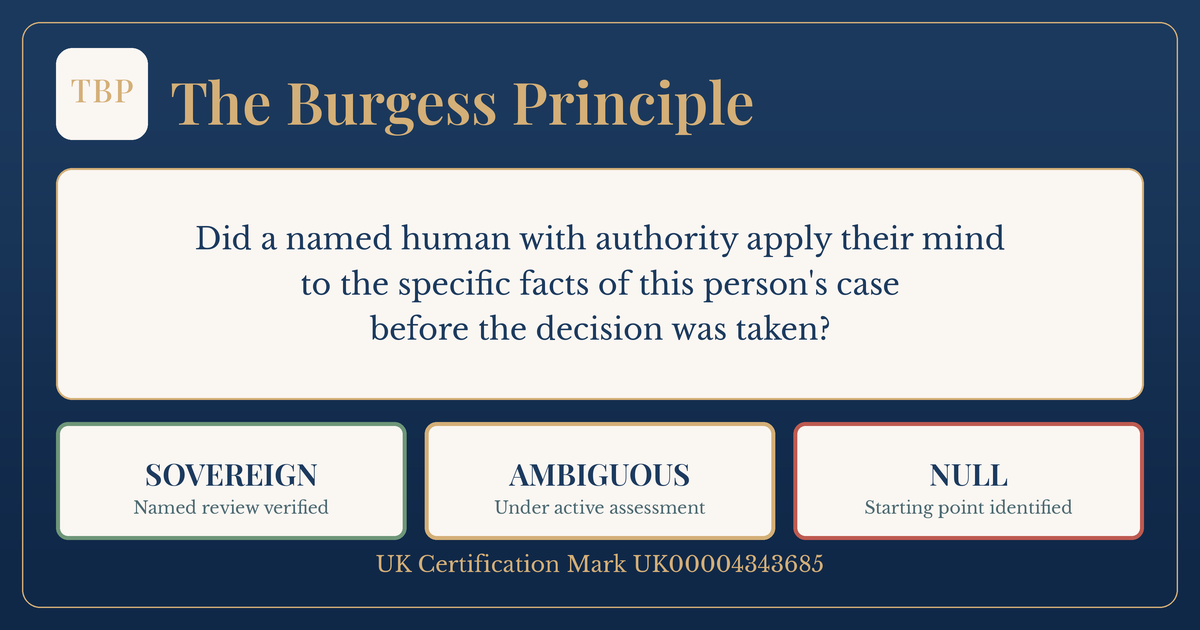
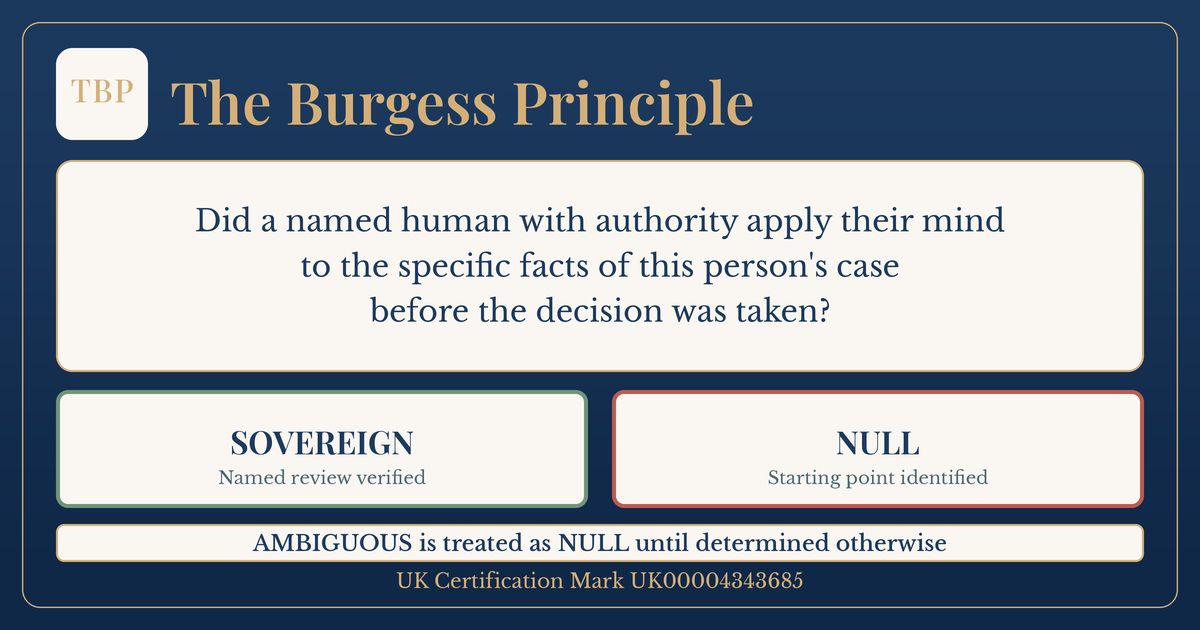
Treat AMBIGUOUS as a working note, not a third outcome. (#516)
The landing test section is binary again: SOVEREIGN or NULL, with a smaller note that AMBIGUOUS is treated as NULL until determined otherwise. Add the same clause to the certify working-note sentence, replace the em dash in the badge AMBIGUOUS label, and update the share image so the two outcome boxes sit above that note.

Changed region(s): [[0.0308, 0.573, 0.9558, 0.9349], [0.1542, 0.3317, 0.8325, 0.5429], [0.0308, 0.2413, 0.9558, 0.2714]]

diff --git a/index.html b/index.html
@@ -16,13 +16,13 @@
     <meta property="og:image" content="https://burgess-principle.vercel.app/og-image.png">
     <meta property="og:image:width" content="1200">
     <meta property="og:image:height" content="630">
-    <meta property="og:image:alt" content="The Burgess Principle. Did a named human with authority apply their mind to the specific facts of this person's case before the decision was taken? Outcomes: SOVEREIGN, AMBIGUOUS, NULL. UK Certification Mark UK00004343685.">
+    <meta property="og:image:alt" content="The Burgess Principle. Did a named human with authority apply their mind to the specific facts of this person's case before the decision was taken? Outcomes: SOVEREIGN or NULL. AMBIGUOUS is treated as NULL until determined otherwise. UK Certification Mark UK00004343685.">
 
     <meta name="twitter:card" content="summary_large_image">
     <meta name="twitter:title" content="The Burgess Principle: was a human there?">
     <meta name="twitter:description" content="Did a named human with authority apply their mind to the specific facts of this person's case before the decision was taken? UK Certification Mark UK00004343685.">
     <meta name="twitter:image" content="https://burgess-principle.vercel.app/og-image.png">
-    <meta name="twitter:image:alt" content="The Burgess Principle. Did a named human with authority apply their mind to the specific facts of this person's case before the decision was taken? Outcomes: SOVEREIGN, AMBIGUOUS, NULL. UK Certification Mark UK00004343685.">
+    <meta name="twitter:image:alt" content="The Burgess Principle. Did a named human with authority apply their mind to the specific facts of this person's case before the decision was taken? Outcomes: SOVEREIGN or NULL. AMBIGUOUS is treated as NULL until determined otherwise. UK Certification Mark UK00004343685.">
     <meta name="theme-color" content="#0a0a0a">
     <meta name="apple-mobile-web-app-capable" content="yes">
     <meta name="apple-mobile-web-app-status-bar-style" content="black-translucent">
@@ -319,9 +319,9 @@
         /* ------------------------------------------------------------------ */
         .binary-grid {
             display: grid;
-            grid-template-columns: 1fr 1fr 1fr;
+            grid-template-columns: 1fr 1fr;
             gap: 20px;
-            max-width: 1020px;
+            max-width: 700px;
         }
 
         .binary-card {
@@ -336,11 +336,6 @@
             border-color: rgba(92, 184, 92, 0.2);
         }
 
-        .binary-card-ambiguous {
-            background: linear-gradient(135deg, rgba(212, 175, 119, 0.10) 0%, transparent 100%);
-            border-color: rgba(212, 175, 119, 0.35);
-        }
-
         .binary-card-null {
             background: linear-gradient(135deg, rgba(217, 83, 79, 0.06) 0%, transparent 100%);
             border-color: rgba(217, 83, 79, 0.2);
@@ -353,13 +348,29 @@
         }
 
         .binary-card-sovereign .binary-finding { color: var(--green); }
-        .binary-card-ambiguous .binary-finding { color: var(--gold); }
         .binary-card-null .binary-finding { color: var(--red); }
 
         .binary-meaning {
             font-size: 0.85rem;
             color: var(--text-dim);
             line-height: 1.6;
+        }
+
+        .binary-note {
+            max-width: 700px;
+            margin: 20px 0 0;
+            padding: 14px 18px;
+            border-radius: var(--radius-lg);
+            border: 1px solid rgba(212, 175, 119, 0.28);
+            background: rgba(212, 175, 119, 0.06);
+            color: var(--text-dim);
+            font-size: 0.82rem;
+            line-height: 1.55;
+        }
+
+        .binary-note strong {
+            color: var(--gold);
+            font-weight: 600;
         }
 
         /* ------------------------------------------------------------------ */
@@ -1662,22 +1673,19 @@
             <div class="section-label">The Core</div>
             <h2 class="section-title">The Test</h2>
             <p class="section-desc">
-                Every finding under the Burgess Principle resolves to one of three outcomes: SOVEREIGN, AMBIGUOUS, or NULL.
+                Every finding under the Burgess Principle resolves to one of two outcomes: SOVEREIGN or NULL.
             </p>
             <div class="binary-grid">
                 <div class="binary-card binary-card-sovereign">
                     <div class="binary-finding">SOVEREIGN</div>
                     <p class="binary-meaning">A named person with authority applied their mind to the specific facts, shown in their own words.</p>
                 </div>
-                <div class="binary-card binary-card-ambiguous">
-                    <div class="binary-finding">AMBIGUOUS</div>
-                    <p class="binary-meaning">Under active assessment. The record cannot yet support either way.</p>
-                </div>
                 <div class="binary-card binary-card-null">
                     <div class="binary-finding">NULL</div>
                     <p class="binary-meaning">No such person is evidenced. This is the starting point for a named review, not a finding that the decision is void.</p>
                 </div>
             </div>
+            <p class="binary-note"><strong>AMBIGUOUS</strong> is a working note when a reply has not yet answered the question, and it is treated as NULL until determined otherwise.</p>
         </section>
 
         <hr class="section-divider">

diff --git a/docs/index.html b/docs/index.html
@@ -688,7 +688,8 @@
     </div>
     <p class="bp-working-note">
       The registered standard is binary. AMBIGUOUS may be used as a correspondence
-      working note when a reply has not yet answered the question. It is not a
+      working note when a reply has not yet answered the question, and it is
+      treated as NULL until determined otherwise. It is not a
       certification determination.
     </p>
     <p class="bp-hero-body">

diff --git a/burgess-badge.html b/burgess-badge.html
@@ -415,7 +415,7 @@
             const titles = {
                 sovereign: '✓ SOVEREIGN — Individual Human Review Confirmed',
                 null: '✗ NULL — No Individual Human Review',
-                ambiguous: '? AMBIGUOUS — Unclear If Individual Review Occurred'
+                ambiguous: '? AMBIGUOUS: Unclear If Individual Review Occurred'
             };
 
             const explanations = {
